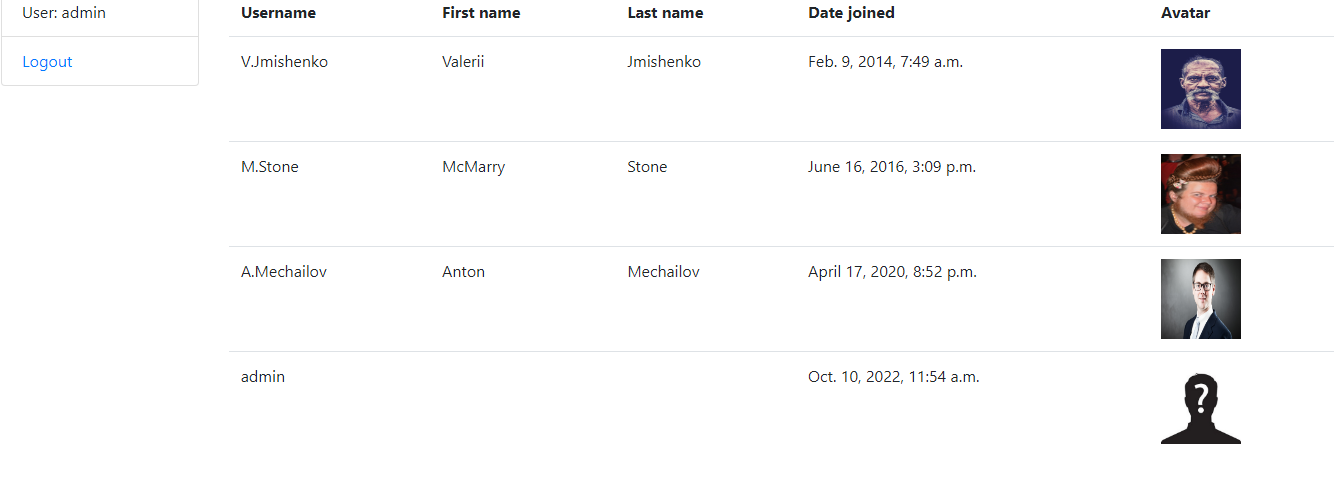
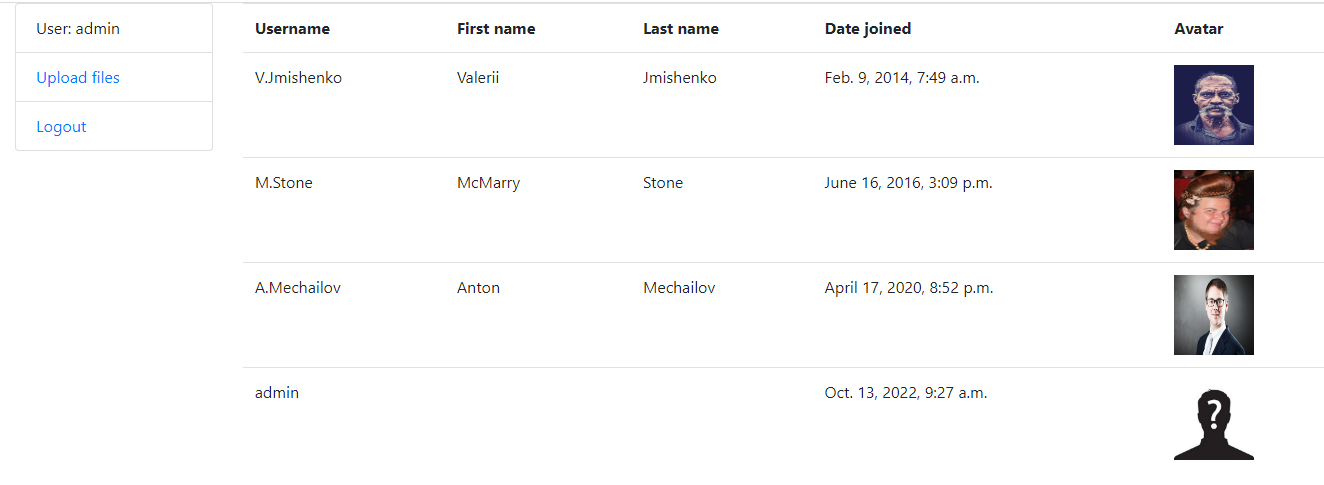
added new features & updaded readme.md

diff --git a/templates/upload_files.html b/templates/upload_files.html
@@ -1,0 +1,24 @@
+{% extends "index.html" %}
+{% load crispy_forms_filters %}
+{% block content %}
+
+    <form action="{% url 'includes:upload' %}" method="post" enctype="multipart/form-data">
+        {% csrf_token %}
+        {{ form|crispy }}
+        {% if messages %}
+            <div class="alert alert-warning">
+                <div class="container text-center">
+                    {% for message in messages %}
+                        <li{% if message.tags %} class="{{ message.tags }}"{% endif %}>{{ message }}</li>
+                    {% endfor %}
+                </div>
+            </div>
+        {% endif %}
+
+        {#        {{ form.errors }}#}
+        {#        {{ form.upload_xml_file|crispy }}#}
+
+
+        <input type="submit" value="Upload" class="btn btn-primary">
+    </form>
+{% endblock %}

diff --git a/test_app/views.py b/test_app/views.py
@@ -1,8 +1,13 @@
 from datetime import datetime
-from django.contrib.auth import get_user_model
-from django.contrib.auth.decorators import login_required
+from django.contrib import messages
 from django.shortcuts import render
-from test_app.validation_data import working_with_files
+from django.http import HttpResponseRedirect
+from django.urls import reverse_lazy
+from django.contrib.auth.decorators import login_required
+from django.contrib.auth import get_user_model
+from test_app.forms import UploadFilesForm
+from test_app.models import Document
+from test_app.validation_data import working_with_files, update_files
 
 
 @login_required
@@ -15,12 +20,45 @@ def index(request):
                 username=user_data["username"],
                 first_name=user_data["first_name"],
                 last_name=user_data["last_name"],
-                password=user_data["password"],
                 date_joined=datetime.fromtimestamp(int(user_data["date_joined"])),
                 avatar=user_data["avatar"],
             )
+            current_user = user.objects.get(username=user_data["username"])
+            current_user.set_password(user_data["password"])
+            current_user.save()
 
     context = {
         "users": user.objects.all(),
     }
     return render(request, "index.html", context=context)
+
+
+def upload_files(request):
+    if request.POST:
+        form = UploadFilesForm(request.POST, request.FILES)
+        scv_file = request.FILES["upload_csv_file"]
+        xml_file = request.FILES["upload_xml_file"]
+
+        if form.is_valid():
+            if not scv_file.name.endswith(".csv"):
+                messages.error(request, "File is not CSV type")
+                return HttpResponseRedirect(reverse_lazy("includes:upload"))
+
+            if not xml_file.name.endswith(".xml"):
+                messages.error(request, "File is not XML type")
+                return HttpResponseRedirect(reverse_lazy("includes:upload"))
+
+            scv_file.name = "test_task.csv"
+            xml_file.name = "test_task.xml"
+
+            new_files = Document(csv_file=scv_file, xml_file=xml_file)
+
+            update_files()
+
+            new_files.save()
+
+            return HttpResponseRedirect(reverse_lazy("includes:index"))
+    else:
+        form = UploadFilesForm()
+
+    return render(request, "upload_files.html", context={"form": form})

diff --git a/test_app/validation_data.py b/test_app/validation_data.py
@@ -1,18 +1,33 @@
 import csv
+import os.path
 import re
-from bs4 import BeautifulSoup
+from pathlib import Path
 
-CSV_PATH = r"C:\Users\coderc\Desktop\testProject\test_app\files\test_task.csv"
-XML_PATH = r"C:\Users\coderc\Desktop\testProject\test_app\files\test_task.xml"
+from bs4 import BeautifulSoup
+from django.contrib.auth import get_user_model
+
+BASE_DIR = Path(__file__).resolve().parent.parent
+
+MEDIA_PATH = os.path.join(BASE_DIR, 'media')
+
+CSV_PATH = os.path.join(BASE_DIR, 'media', "test_task.csv")
+XML_PATH = os.path.join(BASE_DIR, 'media', "test_task.xml")
+
+
+def update_files():
+    for the_file in os.listdir(MEDIA_PATH):
+        file_path = os.path.join(MEDIA_PATH, the_file)
+        if os.path.isfile(file_path):
+            os.unlink(file_path)
+    user = get_user_model()
+    user.objects.filter(is_superuser=0).all().delete()
 
 
 def working_with_files():
     users_csv_info = []
     users_xml_info = []
-
     with open(CSV_PATH, "r") as file:
         pattern = re.compile("^[a-zA-Zа-яА-Я.]+$")
-
         reader = csv.reader(file)
         for row in reader:
             if len(" ".join(row).split()) == 3 and bool(pattern.search(row[0])):
@@ -27,7 +42,7 @@ def working_with_files():
         for user in bs_data.select("users user"):
             user = [user.first_name.text, user.last_name.text, user.avatar.text]
             if len(" ".join(user).split()) == 3 and bool(
-                pattern.search(user[0]) and pattern.search(user[1])
+                    pattern.search(user[0]) and pattern.search(user[1])
             ):
                 users_xml_info.append(
                     {"first_name": user[0], "last_name": user[1], "avatar": user[2]}

diff --git a/test_app/migrations/0001_initial.py b/test_app/migrations/0001_initial.py
@@ -1,4 +1,4 @@
-# Generated by Django 4.1.2 on 2022-10-10 11:33
+# Generated by Django 4.1.2 on 2022-10-13 10:15
 
 import django.contrib.auth.models
 import django.contrib.auth.validators
@@ -15,6 +15,22 @@ class Migration(migrations.Migration):
     ]
 
     operations = [
+        migrations.CreateModel(
+            name="Document",
+            fields=[
+                (
+                    "id",
+                    models.BigAutoField(
+                        auto_created=True,
+                        primary_key=True,
+                        serialize=False,
+                        verbose_name="ID",
+                    ),
+                ),
+                ("csv_file", models.FileField(upload_to="")),
+                ("xml_file", models.FileField(upload_to="")),
+            ],
+        ),
         migrations.CreateModel(
             name="User",
             fields=[
@@ -97,7 +113,7 @@ class Migration(migrations.Migration):
                         default=django.utils.timezone.now, verbose_name="date joined"
                     ),
                 ),
-                ("avatar", models.ImageField(blank=True, default=None, upload_to="")),
+                ("avatar", models.URLField(blank=True, default=None, null=True)),
                 (
                     "groups",
                     models.ManyToManyField(

diff --git a/test_app/models.py b/test_app/models.py
@@ -1,10 +1,9 @@
-# from django.contrib.auth.models import AbstractUser
 from django.contrib.auth.models import AbstractUser
 from django.db import models
 
 
 class User(AbstractUser):
-    avatar = models.URLField(default=None, blank=True, max_length=200)
+    avatar = models.URLField(default=None, null=True, blank=True, max_length=200)
 
     class Meta:
         ordering = ["date_joined"]
@@ -17,3 +16,8 @@ class User(AbstractUser):
             self.date_joined,
             self.avatar,
         }
+
+
+class Document(models.Model):
+    csv_file = models.FileField(upload_to="")
+    xml_file = models.FileField(upload_to="")

diff --git a/test_app/urls.py b/test_app/urls.py
@@ -1,9 +1,10 @@
 from django.urls import path
 
-from test_app.views import index
+from test_app.views import index, upload_files
 
 urlpatterns = [
     path("", index, name="index"),
+    path("upload-files/", upload_files, name="upload"),
 ]
 
 app_name = "includes"

diff --git a/test_app/forms.py b/test_app/forms.py
@@ -1,0 +1,6 @@
+from django import forms
+
+
+class UploadFilesForm(forms.Form):
+    upload_csv_file = forms.FileField(label='select csv_file', required=True)
+    upload_xml_file = forms.FileField(label='select xml file', required=True)
